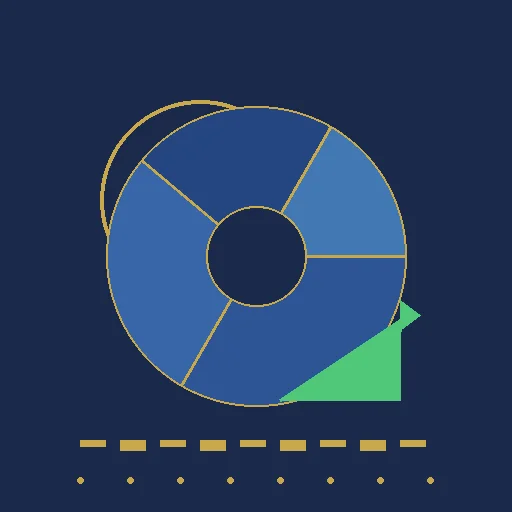
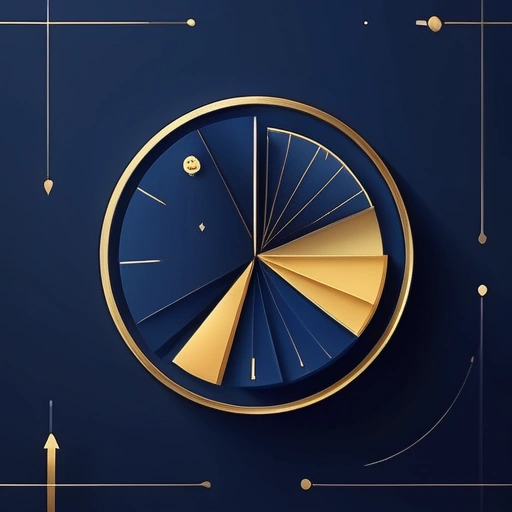
新增：AI 時代的程式開發 Workflow 文章（tech 主題）

diff --git a/_posts/2026-06-04-AI時代的程式開發 workflow.md b/_posts/2026-06-04-AI時代的程式開發 workflow.md
@@ -1,0 +1,217 @@
+---
+layout: post
+title: "2026 AI 時代的程式開發 Workflow：從 Copilot 到 Agent，工程師必學的生產力組合"
+date: 2026-06-04 01:00:00 +0800
+categories: [tech]
+tags: [AI, 程式開發, 生產力工具, Copilot, Agent, 工作流程, 工程師]
+author: GovFlow
+image: assets/images/posts/2026-06-04-ai-dev-workflow-cover.webp
+description: "2026 年 AI 輔助開發早已超越自動補完成式。從程式碼生成、架構設計到自動化測試，完整解析現代工程師必備的 AI Workflow 組合，以及避免常見陷阱的實戰建議。"
+---
+
+如果你還停留在「AI 只是自動補完成式」的印象，你已經落後了整整一個時代。
+
+2026 年，AI 輔助開發已經進化到 **Agent 驅動的全流程自動化**。你不需要再逐行寫 code，而是用自然語言描述需求，讓 Agent 幫你規劃架構、寫程式碼、跑測試，甚至自動修 bug。
+
+這篇文章會分享我親身實踐的 **AI 開發 Workflow**，包含工具組合、實戰技巧、以及必須注意的風險。
+
+---
+
+## 1. 2026 年 AI 開發工具現況
+
+### 不再只是 Copilot
+
+GitHub Copilot 依然是主流，但 2026 年的 Copilot 已經唔同晒：
+
+| 功能 | 2023 年 | 2026 年 |
+|------|---------|---------|
+| 補全範圍 | 幾行 code | 整個函式 + 測試 |
+| 對話能力 | 單純 inline | 完整 Agent 模式 |
+| 上下文 | 當前檔案 | 整個 Repo + Issue |
+| Agent 模式 | ❌ | ✅ 自動規劃執行 |
+
+### Agent 模式係乜？
+
+簡單講，你可以同佢講：
+
+> 「幫我建立一個 REST API，用 Express + TypeScript，包含 user CRUD、JWT 驗證、Rate Limiting」
+
+然後 Agent 會：
+1. 自動規劃檔案結構
+2. 逐個建立檔案
+3. 安裝相依套件
+4. 寫好 unit test
+5. 確認 compile 成功
+
+**一條指令，半個鐘工作量，5 分鐘搞掂。**
+
+---
+
+## 2. 我的 AI Workflow 組合
+
+### 核心工具鏈
+
+```
+┌─────────────────────────────┐
+│  1. 需求描述 (Prompt)        │
+│     └→ Claude / GPT / Gemini │
+│          │                   │
+│  2. AI Agent (規劃+執行)      │
+│     └→ Copilot Agent /        │
+│        Cursor / Windsurf     │
+│          │                   │
+│  3. Code Review (AI 雙重檢查)│
+│     └→ CodeRabbit /           │
+│        ChatGPT Code Review   │
+│          │                   │
+│  4. 測試生成 (自動化)         │
+│     └→ Vitest + AI 生成       │
+│          │                   │
+│  5. 部署 (CI/CD + AI 監控)   │
+│     └→ GitHub Actions +       │
+│        AI 日誌分析            │
+└─────────────────────────────┘
+```
+
+### 實戰範例：用 AI 建立一個 Todo API
+
+以下係我用 Cursor Agent Mode + Claude 完成一個簡單 Todo API 的真實過程：
+
+**Step 1：寫 Prompt**
+```
+建立一個 Todo API：
+- Express + TypeScript
+- SQLite (better-sqlite3)
+- CRUD 操作
+- 加上 Rate Limiting
+- 寫好 unit test (Vitest)
+```
+
+**Step 2：Agent 自動執行**
+Agent 會自動：
+- 初始化 `npm init` + install dependencies
+- 建立 `src/` 目錄結構
+- 寫 `schema.ts`, `routes.ts`, `middleware.ts`
+- 建立 `tests/` 資料夾
+- 跑一次 test 確認全部 passing
+
+**Step 3：人工 review**
+唔好完全信晒 AI。重點檢查：
+- 邏輯有冇漏洞？
+- Rate limit 設定合理嗎？
+- Error handling 夠唔夠完整？
+
+---
+
+## 3. 進階技巧：Prompt Engineering for Code
+
+寫 code prompt 同一般 prompt 好唔同。以下係我試過最有效嘅格式：
+
+### 結構化 Prompt 模板
+
+```
+## 專案
+{專案名稱與簡短背景}
+
+## 技術棧
+- Framework: {Express / Next.js / FastAPI ...}
+- Language: {TypeScript / Python / Go ...}
+- Database: {PostgreSQL / SQLite / MongoDB ...}
+- Testing: {Vitest / Jest / Pytest ...}
+
+## 需求
+1. {功能 A}：{詳細描述}
+2. {功能 B}：{詳細描述}
+3. {功能 C}：{詳細描述}
+
+## 約束
+- 使用 ESM import 語法
+- 所有 API 回傳 JSON
+- Error handling 統一格式
+- 寫 unit test
+```
+
+### 常見 Prompt 錯誤
+
+❌ **太模糊**：「幫我寫一個 backend」
+✅ **夠具體**：「幫我用 Express + TypeScript 寫一個 user auth system，包含 register、login、JWT refresh token」
+
+❌ **冇約束**：「幫我寫一個 API」
+✅ **有規範**：「幫我寫一個 REST API，所有 route 用 camelCase，error response 統一用 `{ success: false, error: string }`」
+
+❌ **一鍋熟**：「建立一個電商網站」
+✅ **拆細做**：「先建立 product CRUD API，再寫 cart system，最後先做 payment」
+
+---
+
+## 4. AI Code Review 雙重檢查流程
+
+我嘅 production code 一定會經過兩層 AI review：
+
+```
+開發者寫 code → AI Agent 生成
+                     ↓
+            AI Reviewer 1（CodeRabbit）
+              → 檢查 bugs、security、style
+                     ↓
+            AI Reviewer 2（手動 prompt）
+              → 用不同模型再做一次 review
+                     ↓
+            開發者最終確認 → Merge
+```
+
+**點解要用兩個唔同嘅 AI？** 因為唔同模型嘅強項唔同。一個擅長搵 bug，另一個擅長建議架構改善。兩個夾埋，漏網之魚大幅減少。
+
+---
+
+## 5. 風險與限制（一定要睇）
+
+### ⚠️ AI 寫 code 的常見陷阱
+
+1. **幻覺（Hallucination）**：AI 會用好自信嘅語氣講錯嘅嘢。例如用一個唔存在嘅 NPM package，或者用錯 API 參數。
+
+2. **安全漏洞**：AI 生成嘅 code 未必考慮 security。最常見嘅有：
+   - SQL injection（尤其係直接 string concatenation）
+   - 敏感資料 hardcode
+   - 權限檢查遺漏
+
+3. **技術債**：AI 傾向於「用得就算」，唔會考慮長期維護性。你可能會見到：
+   - 重複邏輯
+   - 冇 comment（或者太多廢 comment）
+   - 命名唔一致
+
+### 🛡️ 點樣避陷阱？
+
+| 風險 | 預防方法 |
+|------|---------|
+| 幻覺 | 每次都用 **實測** 確認，唔好信晒 AI |
+| 安全漏洞 | 用 **Semgrep / CodeQL** 做自動掃描 |
+| 技術債 | 建立專案 style guide，每次 review 對照 |
+| 過度依賴 | 限制 AI 生成量，自己理解每一段 code |
+
+---
+
+## 6. 2026 下半年 AI 開發趨勢預測
+
+1. **AI Agent 協作**：多個 Agent 各自負責唔同 module，互相溝通協調
+2. **端到端生成**：從 UI mockup → API → database schema，一條龍生成
+3. **自我修復 code**：AI 偵測到 production bug 後自動分析 root cause 並開 PR
+4. **私有化 AI 開發工具**：企業將 AI 模型部署在內部，確保 code 唔會外洩
+
+---
+
+## 結語
+
+AI 唔係嚟取代工程師，但 **用 AI 嘅工程師一定會取代唔用 AI 嘅工程師**。
+
+關鍵係：
+1. 掌握 Prompt Engineering
+2. 建立完整 AI Workflow（唔單止係寫 code）
+3. 永遠 double check AI 嘅 output
+4. 保持學習，因為呢個領域每個月都在變
+
+記住一句話：**AI 係你嘅 Senior Engineer，但你係嗰個 Architect。**
+
+---
+
+*你哋用緊邊啲 AI 開發工具？有冇試過 Agent Mode？留言分享你嘅經驗！*